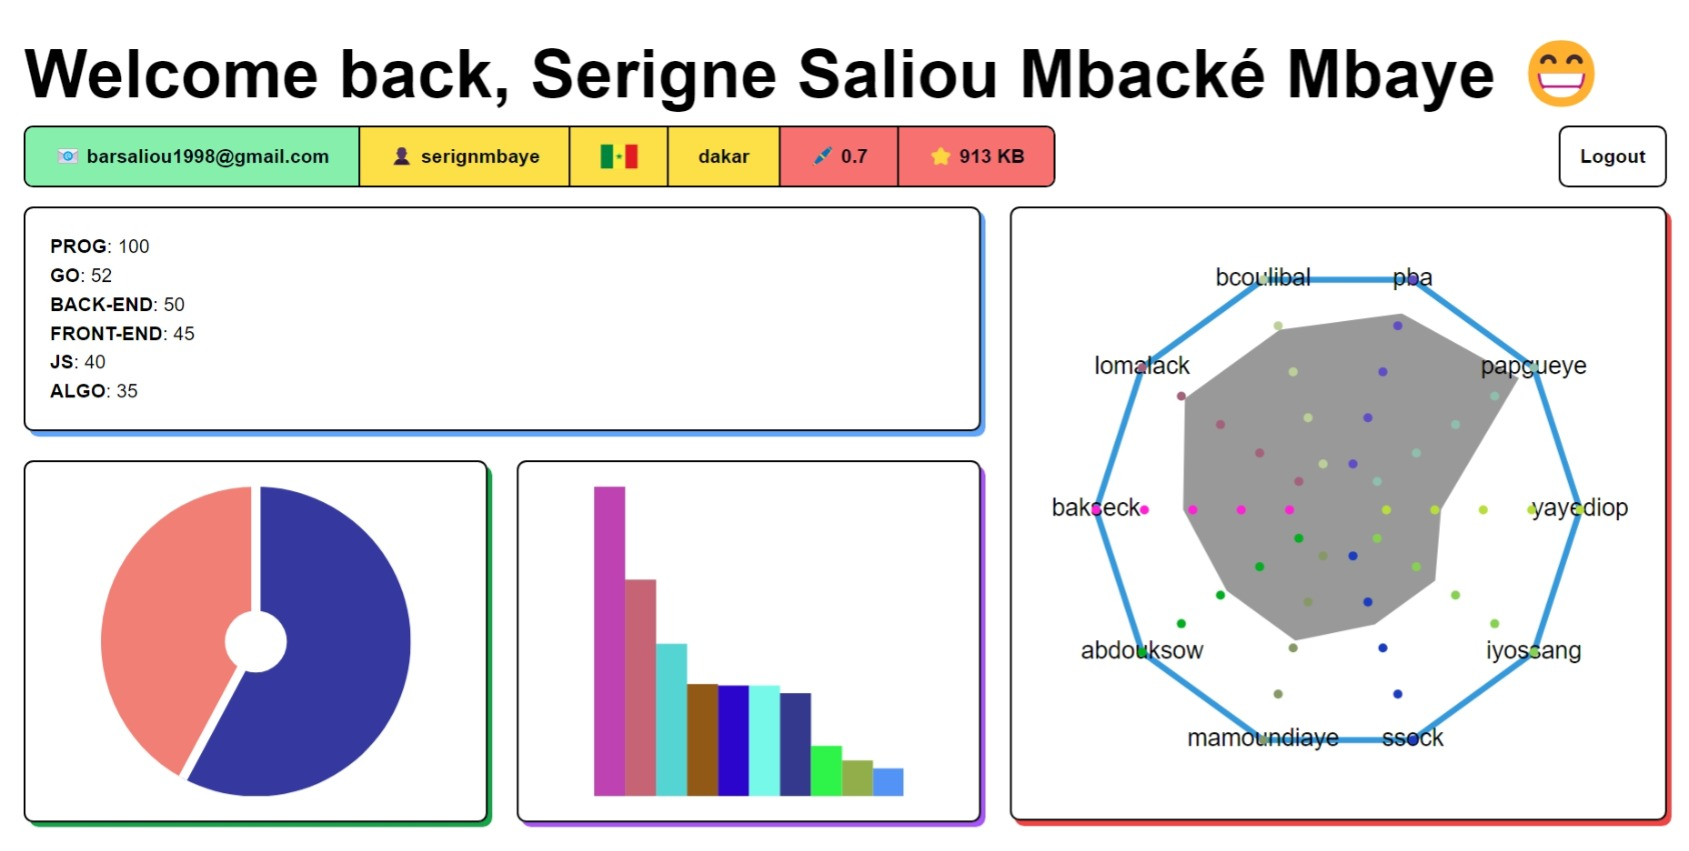
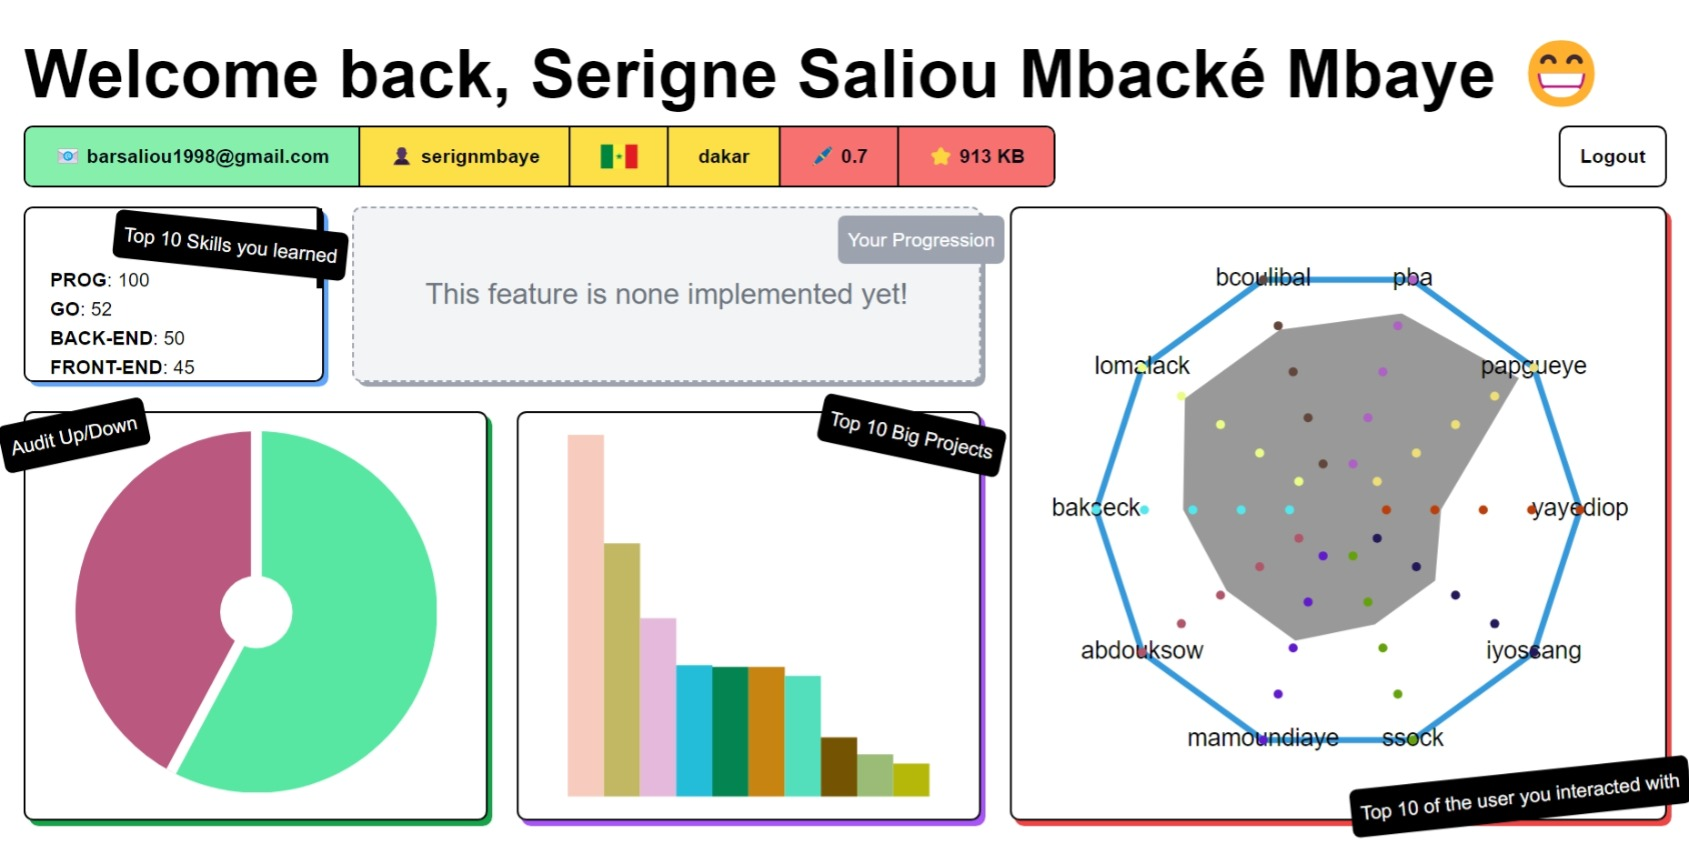
feat: update style

diff --git a/profile.html b/profile.html
@@ -49,7 +49,6 @@
 
         bar-chart,
         pie-chart {
-            height: 100%;
             aspect-ratio: 1/1;
         }
     </style>
@@ -131,12 +130,12 @@
                     <div class="flex h-full w-2/3 ">
                         <div class="h-full mb-6 sm:mb-0 w-full">
                             <div class="relative h-full ml-0 mr-0 sm:mr-6">
-                                <span class="absolute bg-gray-400 text-white z-50 -right-5 top-3 p-2 rounded-md">Your
+                                <span class="absolute bg-gray-400 text-white z-50 -right-5 top-2 p-2 rounded-md">Your
                                     Progression</span>
                                 <span
                                     class="absolute top-0 left-0 w-full h-full mt-1 ml-1 bg-gray-400 rounded-lg"></span>
                                 <div
-                                    class="relative flex h-full p-5 border-dashed border-2 border-gray-400 rounded-lg text-3xl text-gray-400 bg-gray-100 text-center items-center justify-center">
+                                    class="relative flex h-full p-5 border-dashed border-2 border-gray-400 rounded-lg text-2xl text-gray-500 bg-gray-100 text-center items-center justify-center">
                                     This feature is none implemented yet!
                                 </div>
                             </div>

diff --git a/js/chart.js b/js/chart.js
@@ -108,7 +108,9 @@ class PieChart extends HTMLElement {
               left: 0;
               padding: .1em .2em;
               transform: translate(-50%, -50%);
-              background-color: var(--tooltip-bg, #FFF);
+              background-color: var(--tooltip-bg, #000);
+              color: #FFF;
+              border-radius: .25rem;
               opacity: 0;
               transition: opacity .3s;
           }
